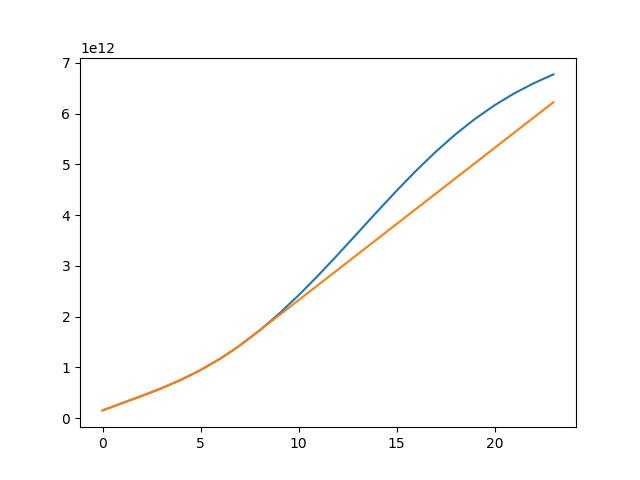
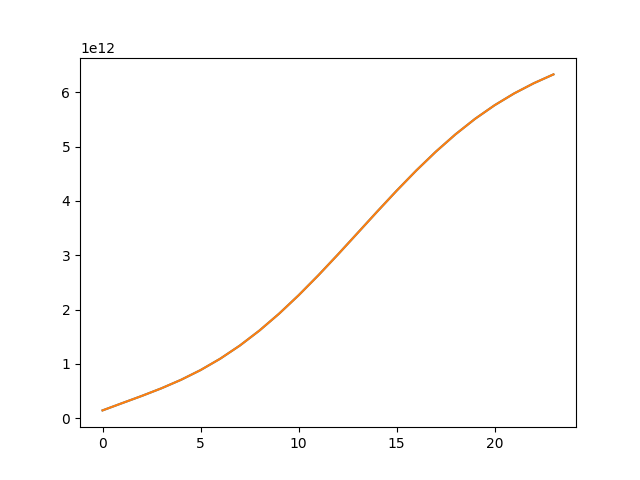
increase batch size

diff --git a/src/train.py b/src/train.py
@@ -29,24 +29,29 @@ def train(environment, model, config, device="cpu"):
     model.train()  # put the model in "training mode"
 
     losses = []
+    rewards = []
 
-    for _ in tqdm(range(config["num_episodes"])):  # each iteration is one day simulation
+    for _ in tqdm(range(config["num_updates"])):  # each iteration is one day simulation
 
         # reward y[i] comes after state x[i]
         x, y = [], []
 
-        environment.reset()
-        # simulate to get dataset of tuple for each timestep (state + #VMs, value)
-        for _ in range(24):
-            s = environment.get_state_vector()
-            if random() < config["epsilon"]:
-                num_vms = choice(range(20))
-            else:
-                num_vms = predict(model, s, action_space=range(20), device=device)
-            environment.step(num_vms)
-            r = environment.get_reward(*config["reward_weights"])
-            x.append(s + [num_vms])
-            y.append(r)
+        for _ in range(config["episodes_per_update"]):
+
+            environment.reset()
+            # simulate to get dataset of tuple for each timestep (state + #VMs, value)
+            for _ in range(24):
+                s = environment.get_state_vector()
+                if random() < config["epsilon"]:
+                    num_vms = choice(range(20))
+                else:
+                    num_vms = predict(model, s, action_space=range(20), device=device)
+                environment.step(num_vms)
+                r = environment.get_reward(*config["reward_weights"])
+                x.append(s + [num_vms])
+                y.append(r)
+
+        rewards.append(sum(y))
 
         current = 0  # reduces weight of rewards that are further away
         for i in range(len(y)-1, -1, -1):
@@ -56,7 +61,7 @@ def train(environment, model, config, device="cpu"):
         dataset = SimpleDataset(x, y)
 
         # this allows us to efficiently load the data into our model
-        loader = DataLoader(dataset, batch_size=1, shuffle=True)
+        loader = DataLoader(dataset, batch_size=config["batch_size"], shuffle=True)
 
         losses.append(0)
 
@@ -74,7 +79,7 @@ def train(environment, model, config, device="cpu"):
             loss.backward()
             optimiser.step()  # update the model based on the loss
 
-    return losses
+    return losses, rewards
 
 def predict(model, state, action_space, device="cpu"):
     # returns how many VMs to use

diff --git a/src/main.py b/src/main.py
@@ -8,10 +8,12 @@ def main():
     DEVICE = "cpu"
 
     config = {
-        "lr": 0,
-        "num_episodes": 2,
-        "momentum": 0,
-        "reward_weights": (1, 1, 0),
+        "lr": 0.0001,
+        "num_updates": 500,
+        "episodes_per_update": 10,
+        "batch_size": 24*10,
+        "momentum": 0.9,
+        "reward_weights": (1, 1, 0),  # on peak, off peak, completion
         "gamma": 1,
         "epsilon": 0.1,
     }
@@ -23,7 +25,13 @@ def main():
     environment = Environment()
 
     print("training model")
-    losses = train(environment, model, config, device=DEVICE)
+    losses, rewards = train(environment, model, config, device=DEVICE)
+
+    SMOOTHING = 10
+    smooth_losses, smooth_rewards = [], []
+    for i in range(len(losses) - SMOOTHING):
+        smooth_losses.append(sum(losses[i:i+SMOOTHING]))
+        smooth_rewards.append(sum(rewards[i:i+SMOOTHING]))
 
     # example run
 
@@ -65,15 +73,21 @@ def main():
         metrics_rl["data_to_process"].append(environment_rl.get_data_to_process())
         metrics_rl["data_processed"].append(environment_rl.get_data_processed())
         metrics_rl["reward"].append(environment_rl.get_reward(*config["reward_weights"]))
-    
+
     # plot graphs & compute environmental benefits!
 
     # TODO: see comment above - use metrics_baseline & metrics_rl
 
     print("temp results:", metrics_baseline, metrics_rl)
 
+    plt.plot(smooth_rewards)
+    plt.savefig("temp_graph_rewards.png")
+    plt.close()
+    plt.plot(smooth_losses)
+    plt.savefig("temp_graph_losses.png")
+    plt.close()
     plt.plot(metrics_rl["data_to_process"])
-    plt.plot(metrics_baseline["data_processed"])
+    plt.plot(metrics_rl["data_processed"])
     plt.savefig("temp_graph.png")
     
     visualise_data_processed(metrics_rl["data_processed"])
@@ -81,6 +95,15 @@ def main():
 if __name__ == "__main__":
 
     from copy import deepcopy
+    import random
+    import numpy as np
     import matplotlib.pyplot as plt
     import torch
+
+    SEED = 0
+
+    random.seed(SEED)
+    np.random.seed(SEED)
+    torch.manual_seed(SEED)
+
     main()

diff --git a/src/environment.py b/src/environment.py
@@ -11,12 +11,12 @@ class Environment:
         self.time = self.data_to_process = self.data_processed = self.cum_availability = \
             self.on_peak_vm_hours = self.off_peak_vm_hours = 0
         self.current_vms = -1
-        self.availability = int(np.random.normal(loc=15, scale=2))
+        self.availability = round(np.random.normal(loc=15, scale=2))
         self.a = np.random.normal(loc=1, scale=0.05)
 
     def step(self, num_vms):  # moves us forward one hour
         
-        self.availability = max(0, int(np.random.normal(loc=self.availability, scale=1)))
+        self.availability = max(0, round(np.random.normal(loc=self.availability, scale=1)))
         self.cum_availability += self.availability
 
         self.current_vms = min(self.availability, num_vms)
@@ -83,5 +83,5 @@ class Environment:
 
         return - alpha * self.is_on_peak() * self.current_vms \
                - beta * (1 - self.is_on_peak()) * self.current_vms \
-               + gamma * int(self.get_data_to_process() + 128_000_000_000 > self.get_data_processed() \
+               + gamma * int(self.get_data_to_process() < 1.2 * self.get_data_processed() \
                              and self.get_time() == 24)  # here we have 128MB slack on data processing requirements
